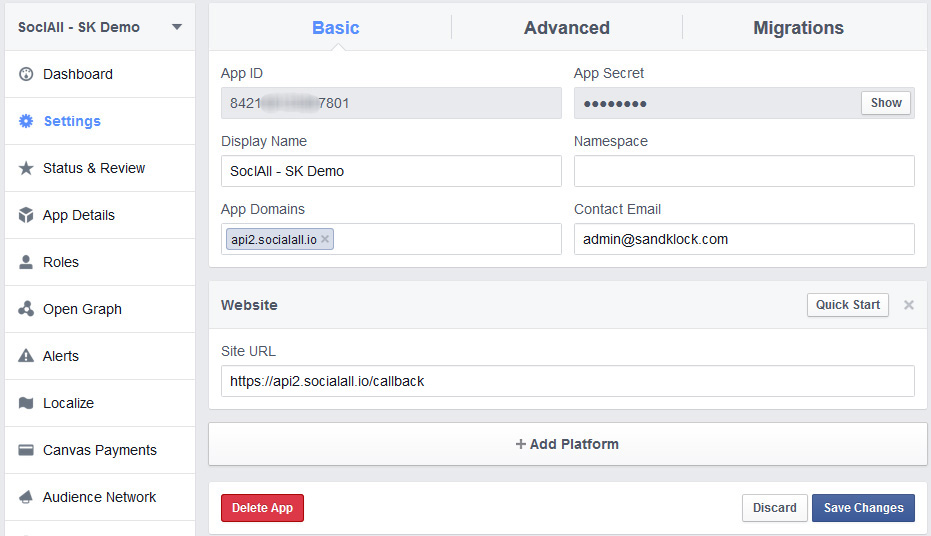
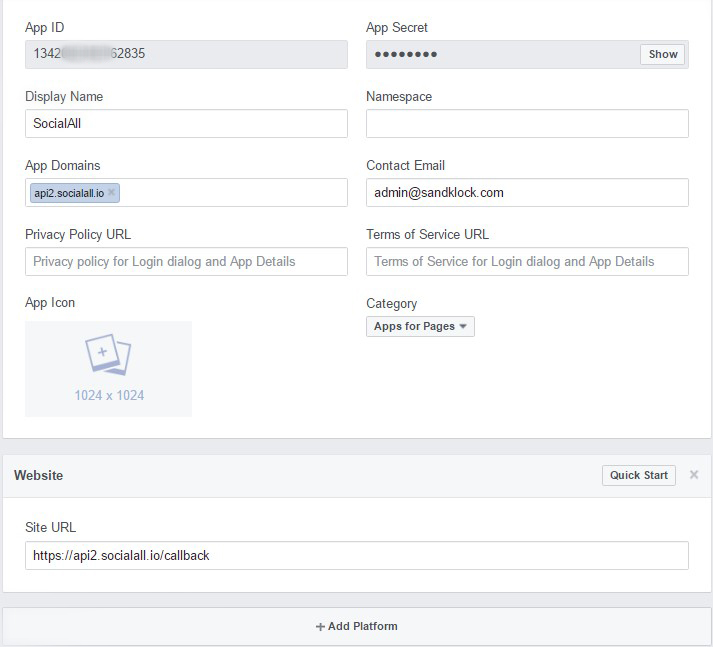
update facebook docs

diff --git a/docs/user-guide/facebook.md b/docs/user-guide/facebook.md
@@ -2,7 +2,8 @@ __Step-by-Step Guide to Setup Facebook App:__
 
 <iframe width="560" height="315" src="https://www.youtube.com/embed/2xt8w-yQHgk" frameborder="0" allowfullscreen></iframe>
 <br /><br />
-__To register an application on Facebook, please follow all steps below:__
+
+### I. To register an application on Facebook, please follow all steps below:
 
 1. Login to [Facebook](http://www.facebook.com) and go to [Facebook Developer Page](https://developers.facebook.com/quickstarts/?platform=web) to create application.
 2. Fill your application name and press button "Create New Facebook App ID".
@@ -14,16 +15,15 @@ __To register an application on Facebook, please follow all steps below:__
     ![Facebook : Select Any Category](/img/facebook-2-select-any-category.JPG)
     <div class="soclall-br"></div>
 4. Press button "Skip Quick Start" and go to page "App Setting".
-5. Select menu "Settings", then press button "+ Add Platform" and fill the information below:
+5. Select "Settings" menu, then press button "+ Add Platform" ---> select "Website" ---> fill the information below:
     * App Domains: __api2.socialall.io__
-    * Contact Email: __(your email)__
     * Site URL: __https://api2.socialall.io/callback__  
 
     ![Facebook : Setting Page](/img/facebook-3-setting-page.JPG)
     <div class="soclall-br"></div>
  
 6. After done, press button "Save Changes".  
-7. Select menu "Status & Review", and in tab "Status", press button "No" change to "Yes" on first block. 
+7. Select "App Review" menu, press button "No" change to "Yes" on first block. 
     <div class="soclall-br"></div>
     ![Facebook : Status Page](/img/facebook-4-status-page.jpg)
     <div class="soclall-br"></div>    
@@ -36,3 +36,34 @@ __To register an application on Facebook, please follow all steps below:__
     ![Facebook : Config Api](/img/facebook-6-config-api.jpg)
     <div class="soclall-br"></div>
 10. Finaly, you press "Save" button.
+
+---
+
+### II. How send App Review to approve Login permissions:
+
+1. At "Facebook Developer" page, select the application you want to add permissions and approval. Then, select "App Review" menu ---> In "Submit Items for Approval" field, press "Start a Submission" button.
+    <div class="soclall-br"></div>
+    ![Facebook : Start Review](/img/facebook-7-start-review.jpg)
+    <div class="soclall-br"></div>
+2. In "LOGIN PERMISSIONS" field, select Login permissions follow: 
+    * select __publish_actions__ if you want use "SocialAll Posting".
+    * select __user_photos__ if you want use "SocialAll Photos".
+    
+    ![Facebook : Select Action](/img/facebook-8-select-action.jpg)
+    <div class="soclall-br"></div>
+    
+3. Then, press "Add Item" button. Like the image below, you must complete the requirements in the "Before you can submit for review, complete the following:" section before proceeding to the next step. After you complete these requirements, continue press "Edit Notes" of each Login permission you selected.
+    <div class="soclall-br"></div>
+    ![Facebook : Review Settings](/img/facebook-9-review-settings.jpg)
+    <div class="soclall-br"></div>
+4. With __publish_actions__ permission, edit notes follow:
+    * Select all the checkbox in the "To get approved for publish_actions, please confirm that your app follows these policies:" field.
+    * In the "How is your app using publish_actions?" field: select __Lets people post to Facebook using a custom composer__
+    * In the "What platforms does your app use publish_actions on?" field: select __Web__, press button __Off__ change to __On__
+    * Next, please complete the next fields.
+    * Finally, press "Save" button.
+    
+    ![Facebook : Edit Notes of publish_actions](/img/facebook-10-publish-edit-notes.jpg)
+    <div class="soclall-br"></div>
+    
+5. To send this review, press "Submit For Review" button.

diff --git a/docs/developer-guide/index.md b/docs/developer-guide/index.md
@@ -35,6 +35,8 @@ Amazon | amazon | <i class="fa fa-check soclall-icon-check"></i> | | | | |
 Ebay | ebay | <i class="fa fa-check soclall-icon-check"></i> | | | | |
 Yahoo | yahoo | <i class="fa fa-check soclall-icon-check"></i> | | | | |
 Twitch | twitch | <i class="fa fa-check soclall-icon-check"></i> | | | | |
+Steam | steam | <i class="fa fa-check soclall-icon-check"></i> | | | | |
+Weibo | weibo | <i class="fa fa-check soclall-icon-check"></i> | | | | |
 
 # Languages
 

diff --git a/docs/index.md b/docs/index.md
@@ -20,6 +20,7 @@
     * [Ebay](user-guide/ebay.md)
     * [Yahoo](user-guide/yahoo.md)
     * [Twitch](user-guide/twitch.md)
+    * [Steam](user-guide/steam.md)
 * Developer Guide
     * [Getting Started](developer-guide/)
     * [RESTful](developer-guide/restful.md)
